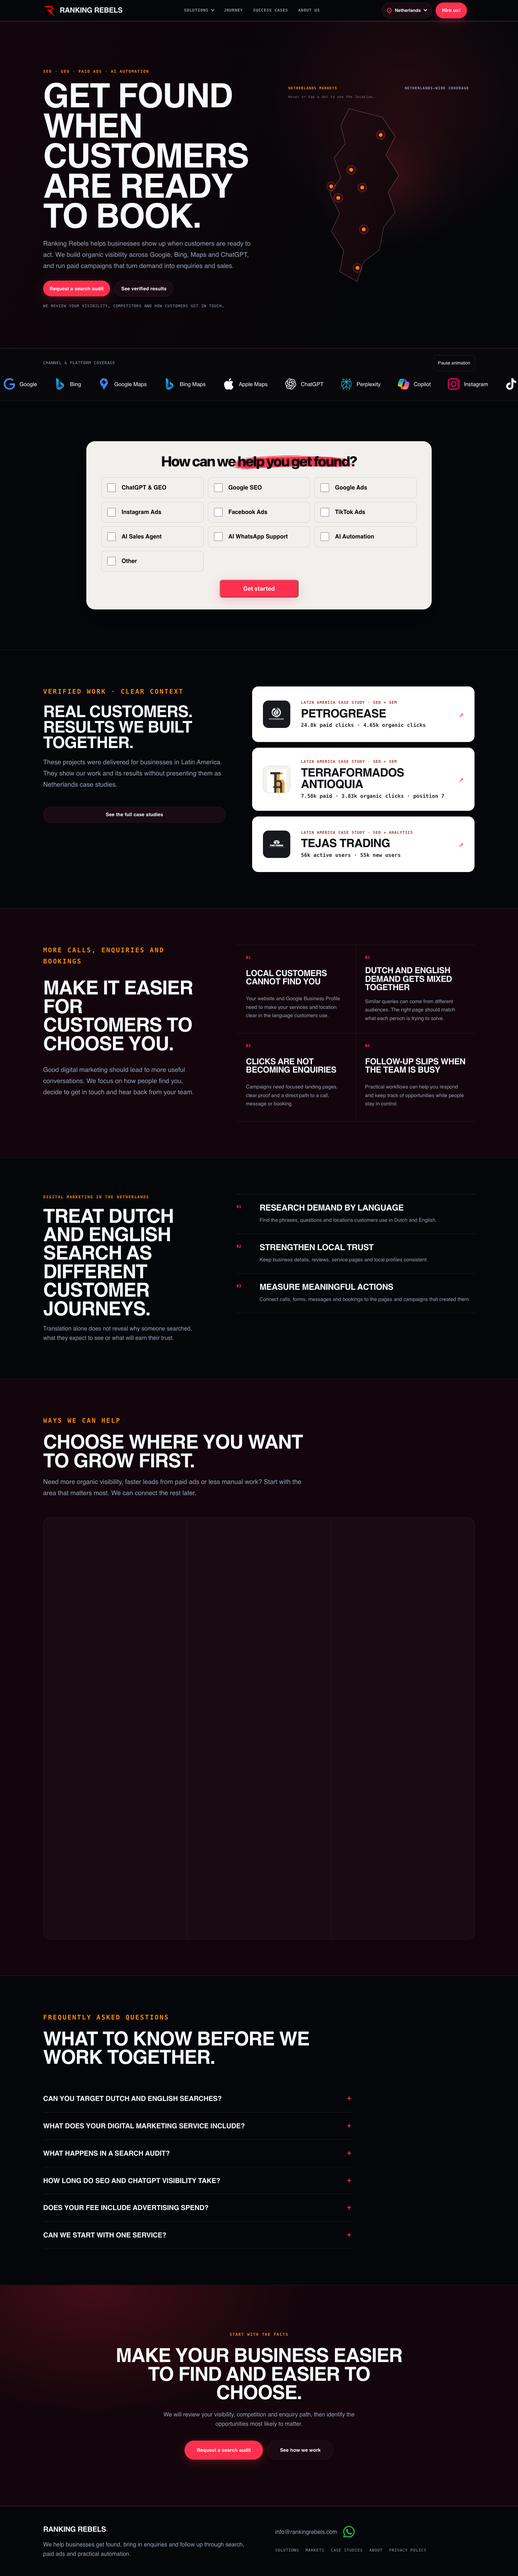
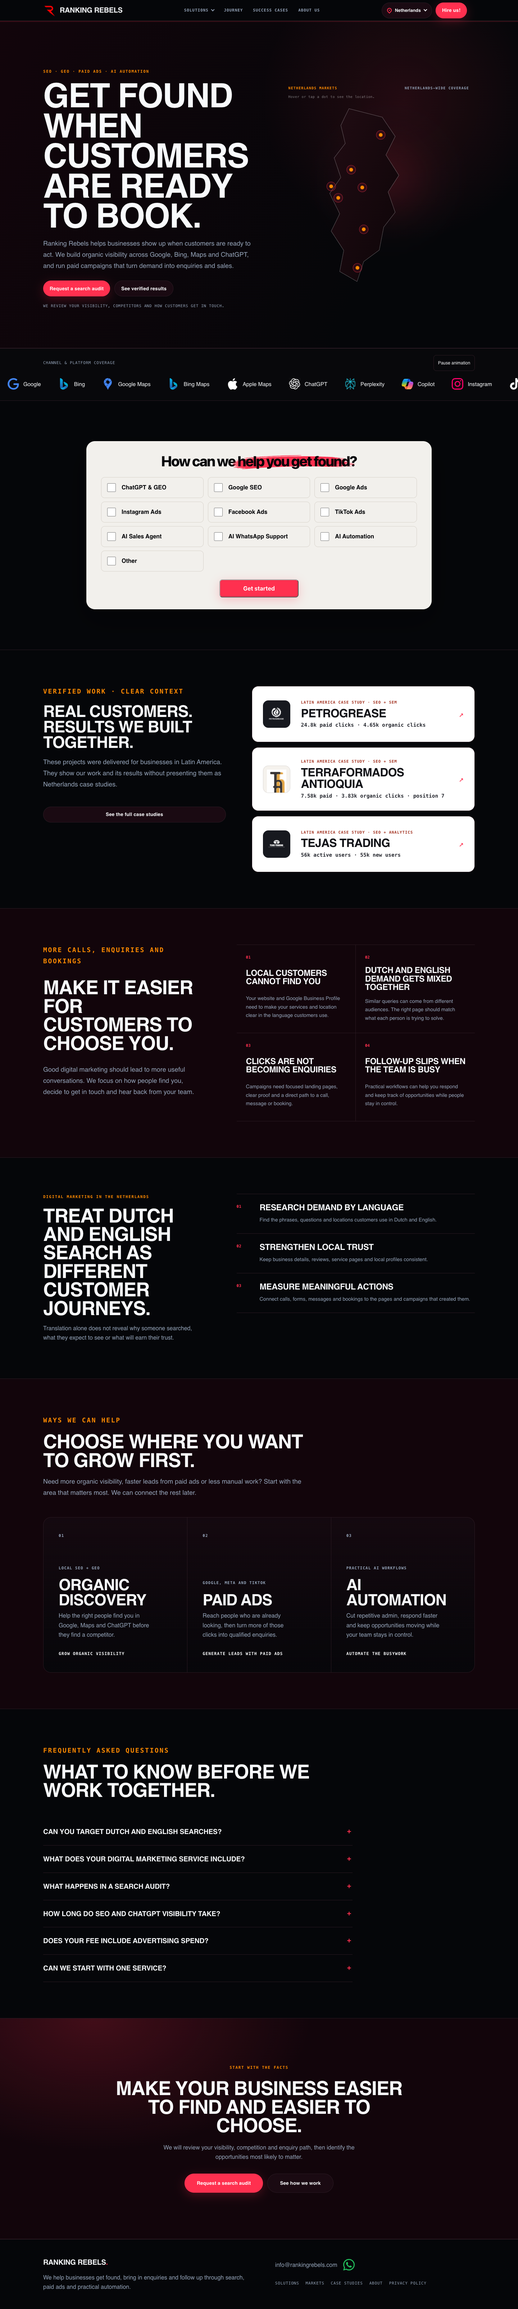
fix: match location service cards to Australia

diff --git a/assets/css/styles.css b/assets/css/styles.css
@@ -7273,12 +7273,12 @@ body.service-dialog-open {
   }
 }
 
-/* Australia landing page: reuse the homepage service artwork. */
-.editorial-site .australia-page .solution-picker-card::before {
+/* Location landing pages: reuse the homepage service artwork. */
+.editorial-site :is(.australia-page, .market-landing-page) .solution-picker-card::before {
   z-index: 1;
 }
 
-.editorial-site .australia-page .solution-picker-card::after {
+.editorial-site :is(.australia-page, .market-landing-page) .solution-picker-card::after {
   content: "";
   position: absolute;
   inset: 0;
@@ -7287,7 +7287,7 @@ body.service-dialog-open {
   pointer-events: none;
 }
 
-.editorial-site .australia-page .solution-picker-image {
+.editorial-site :is(.australia-page, .market-landing-page) .solution-picker-image {
   position: absolute;
   inset: 0;
   z-index: 0;
@@ -7300,20 +7300,20 @@ body.service-dialog-open {
   transition: opacity 240ms ease, filter 240ms ease, transform 320ms ease;
 }
 
-.editorial-site .australia-page .solution-picker-card:nth-child(1) .solution-picker-image {
+.editorial-site :is(.australia-page, .market-landing-page) .solution-picker-card:nth-child(1) .solution-picker-image {
   object-position: 72% center;
 }
 
-.editorial-site .australia-page .solution-picker-card:nth-child(2) .solution-picker-image {
+.editorial-site :is(.australia-page, .market-landing-page) .solution-picker-card:nth-child(2) .solution-picker-image {
   object-position: 78% center;
 }
 
-.editorial-site .australia-page .solution-picker-card:nth-child(3) .solution-picker-image {
+.editorial-site :is(.australia-page, .market-landing-page) .solution-picker-card:nth-child(3) .solution-picker-image {
   object-position: 71% center;
 }
 
-.editorial-site .australia-page .solution-picker-card:hover .solution-picker-image,
-.editorial-site .australia-page .solution-picker-card:focus-visible .solution-picker-image {
+.editorial-site :is(.australia-page, .market-landing-page) .solution-picker-card:hover .solution-picker-image,
+.editorial-site :is(.australia-page, .market-landing-page) .solution-picker-card:focus-visible .solution-picker-image {
   opacity: 0.72;
   filter: grayscale(0.08) brightness(0.78) saturate(1.08);
   transform: scale(1);
@@ -7343,7 +7343,7 @@ body.service-dialog-open {
 }
 
 @media (prefers-reduced-motion: reduce) {
-  .editorial-site .australia-page .solution-picker-image {
+  .editorial-site :is(.australia-page, .market-landing-page) .solution-picker-image {
     transition: none;
   }
 }

diff --git a/tests/site-structure.test.js b/tests/site-structure.test.js
@@ -316,6 +316,7 @@ test("market landing pages share the ribbon fallback and scoped responsive style
   const ribbon = read("assets/js/platform-ribbon.js");
   assert.match(ribbon, /document\.querySelector\('\.platform-ribbon'\)/);
   assert.match(styles, /:is\(\.australia-page, \.market-landing-page\) \.platform-ribbon/);
+  assert.match(styles, /:is\(\.australia-page, \.market-landing-page\) \.solution-picker-image/);
   assert.match(styles, /\.market-landing-page \.market-hero/);
   assert.match(styles, /@media \(max-width: 700px\)[\s\S]*?\.coverage-map \.market-tooltip/);
   assert.match(styles, /@media \(prefers-reduced-motion: reduce\)[\s\S]*?animation: none/);
